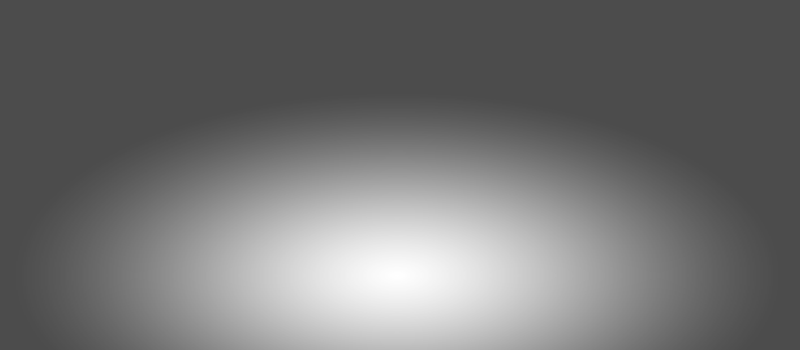
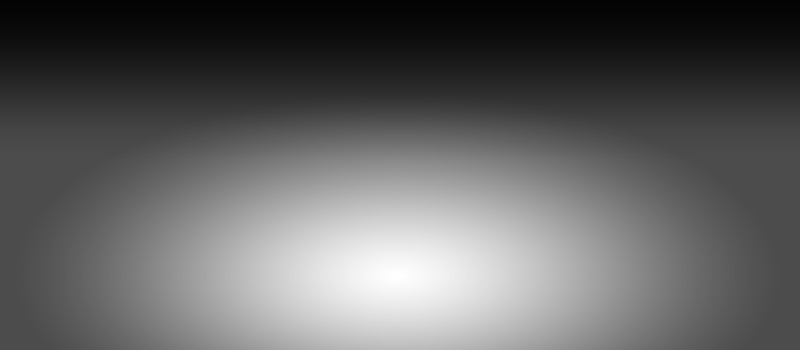
fix

Changed region(s): [[0.0, 0.0, 1.0, 0.3143]]

diff --git a/Client/css/Styles.css b/Client/css/Styles.css
@@ -45,7 +45,7 @@ div#floor {
     position : absolute;
     width : 100%;
     height : 100%;
-    background: #687076 url(../img/shadowlight.png) bottom no-repeat;
+    background: #4f555c url(../img/shadowlight.png) bottom no-repeat;
     z-index : -10000000;
 }
 
@@ -187,10 +187,10 @@ div#ceiling {
 
 #ui #moveforward {
 	position: absolute;
-	top: 52px;
-	left: 174px;
-	width: 30px;
-	height: 30px;
+	top: 40px;
+	left: 172px;
+	width: 35px;
+	height: 35px;
 	display: block;
 }
 
